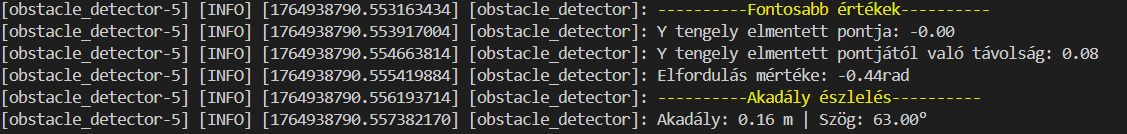
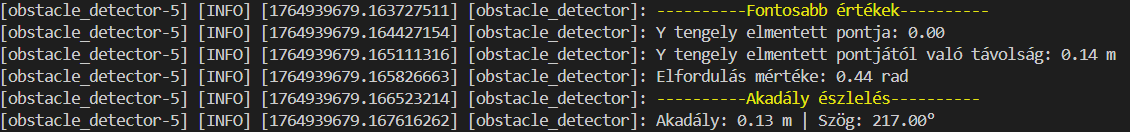
terminál leírás

diff --git a/README.md b/README.md
@@ -52,6 +52,16 @@ graph LR
 
 ![Robot kép](images/turtlebot3_terminal.png)
 
+Y tengely elmentett pontja: Elinduláskor a robot felvesz egy pontot az Y tengelyen (jellemzően 0.00 vagy -0.00), majd e vonal mentén megy előre.
+
+Y tengely elmentett pontjától való távolság: Elemtett Y pontra merőlegesen állított vonaltól mért távolság.
+
+Elfordulás mértéke: Kiinduló irányhoz képesi elfordulás.
+
+Akadály: Milyen messze van a legközelebbi akadály.
+
+Szög: Merre található a legközelebbi akadály.
+
 ### Felhasznált csomagok
 Turtlebot3: Ez a csomag a robot "szíve". Ahhoz, hogy a robot egyátalán mozogni tudjon a bringup-nak futnia kell. Emellett a program készítése során fontos eszközök voltak még a csomagban (pl.: example, teleop).
 
